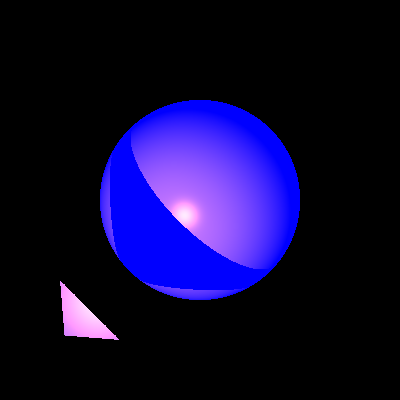
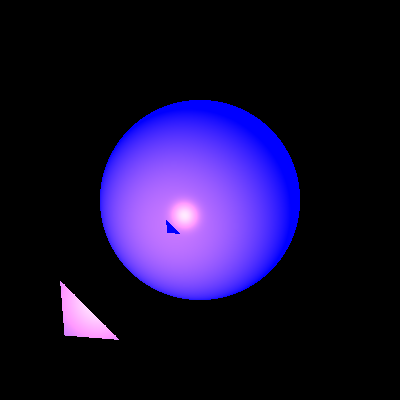
7.02.Nf.2

Changed region(s): [[0.27, 0.33, 0.66, 0.75]]

diff --git a/src/renderer/RayTracerBasic.java b/src/renderer/RayTracerBasic.java
@@ -16,7 +16,7 @@ import java.util.List;
  * Tzofiya David (209918374)
  * Shira Ben Shimol (326065976)
  */
-public class RayTracerBasic extends RayTracerBase{
+public class RayTracerBasic extends RayTracerBase {
     //private static final double DELTA = 0.1;
     private static final Double3 INITIAL_K = Double3.ONE;
     private static final int MAX_CALC_COLOR_LEVEL = 10;
@@ -40,7 +40,7 @@ public class RayTracerBasic extends RayTracerBase{
      * @return The color at the intersection point.
      */
     @Override
-    public Color traceRay(Ray ray){
+    public Color traceRay(Ray ray) {
         var intersections = _scene.geometries.findGeoIntsersections(ray);
         GeoPoint closestPoint = ray.findClosestGeoPoint(intersections);
         return closestPoint == null ? _scene.sceneBack : calcColor(closestPoint, ray);
@@ -66,20 +66,20 @@ public class RayTracerBasic extends RayTracerBase{
     }
 
 
-/*    private boolean unshaded(GeoPoint gp, LightSource lightSource, Vector l, Vector n, double nl){
-        Vector lightDirection = l.scale(-1);
-        Vector epsVector = n.scale(nl<0 ? DELTA : -DELTA);
-        Point point = gp.point.add(epsVector);
-        Ray lightRay = new Ray(point, lightDirection);
-        var intersections = _scene.geometries.findGeoIntsersections(lightRay);
-        if (intersections == null) return true;
-        double lightDistance = lightSource.getDistance(gp.point);
-        for (GeoPoint geoPoint : intersections){
-            if (alignZero(geoPoint.point.distance(gp.point) - lightDistance) <= 0) return false;
-        }
-        return true;
-    }*/
-    private Color calcLocalEffects(GeoPoint gp, Ray ray,Double3 k) {
+    /*    private boolean unshaded(GeoPoint gp, LightSource lightSource, Vector l, Vector n, double nl){
+            Vector lightDirection = l.scale(-1);
+            Vector epsVector = n.scale(nl<0 ? DELTA : -DELTA);
+            Point point = gp.point.add(epsVector);
+            Ray lightRay = new Ray(point, lightDirection);
+            var intersections = _scene.geometries.findGeoIntsersections(lightRay);
+            if (intersections == null) return true;
+            double lightDistance = lightSource.getDistance(gp.point);
+            for (GeoPoint geoPoint : intersections){
+                if (alignZero(geoPoint.point.distance(gp.point) - lightDistance) <= 0) return false;
+            }
+            return true;
+        }*/
+    private Color calcLocalEffects(GeoPoint gp, Ray ray, Double3 k) {
         Color color = gp.geometry.getEmission();
         Vector v = ray.getDir();
         Vector n = gp.geometry.getNormal(gp.point);
@@ -112,6 +112,7 @@ public class RayTracerBasic extends RayTracerBase{
     private Double3 calcDiffusive(Material material, double nl) {
         return material.kD.scale(nl < 0 ? -nl : nl);
     }
+
     private Color calcGlobalEffects(GeoPoint gp, Ray ray, int level, Double3 k) {
         Color color = Color.BLACK;
         Vector v = ray.getDir();
@@ -122,6 +123,7 @@ public class RayTracerBasic extends RayTracerBase{
                 .add(calcGlobalEffect(constructRefractedRay(gp, v, n),
                         level, k, material.kT));
     }
+
     private Color calcGlobalEffect(Ray ray, int level, Double3 k, Double3 kx) {
         Double3 kkx = k.product(kx);
         if (kkx.lowerThan(MIN_CALC_COLOR_K)) return Color.BLACK;
@@ -132,6 +134,7 @@ public class RayTracerBasic extends RayTracerBase{
         return Util.isZero(gp.geometry.getNormal(gp.point).dotProduct(ray.getDir()))
                 ? Color.BLACK : calcColor(gp, ray, level - 1, kkx).scale(kx);
     }
+
     private Ray constructRefractedRay(GeoPoint gp, Vector v, Vector n) {
         return new Ray(gp.point, n, v);
     }
@@ -154,23 +157,24 @@ public class RayTracerBasic extends RayTracerBase{
 
     private Double3 transparency(GeoPoint gp, LightSource light, Vector l, Vector n, double nl) {
         Vector lightDirection = l.scale(-1); // from point to light source
-        Ray lightRay = new Ray(GeoPoint.point, lightDirection, n);
-        List<GeoPoint> intersections = _scene.geometries.findGeoIntsersections(lightRay);
-
+        Ray lightRay = new Ray(gp.point, n, lightDirection); // ray to check shading
+        var intersections = _scene.geometries.findGeoIntsersections(lightRay);
+        if (intersections == null)
+            return Double3.ONE;
         Double3 ktr = Double3.ONE;
-        if (intersections == null) return ktr;
-
-        double distance = LightSource.getDistance(GeoPoint.point);
-
-        for (GeoPoint intersection : intersections) {
-
-            if (distance > intersection.point.distance(GeoPoint.point)) {
-                ktr = ktr.product(intersection.geometry.getMaterial().kT);
+        for (GeoPoint geoPoint : intersections) {
+            if (alignZero(geoPoint.point.distance(gp.point) - light.getDistance(gp.point)) <= 0) {
+                ktr = ktr.product(geoPoint.geometry.getMaterial().kT);
+                if (ktr.equals(Double3.ZERO)) {
+                    break;
+                }
             }
         }
         return ktr;
-    }
+
+}}
 
 
 
-}
+
+

diff --git a/unitTests/renderer/ReflectionRefractionTests.java b/unitTests/renderer/ReflectionRefractionTests.java
@@ -3,17 +3,17 @@
  */
 package renderer;
 
-import static java.awt.Color.*;
-
-import org.junit.jupiter.api.Test;
-
+import geometries.Plane;
 import geometries.Sphere;
 import geometries.Triangle;
 import lighting.AmbientLight;
 import lighting.SpotLight;
+import org.junit.jupiter.api.Test;
 import primitives.*;
-import renderer.*;
 import scene.Scene;
+
+import static java.awt.Color.*;
+
 
 /** Tests for reflection and transparency functionality, test for partial
  * shadows
@@ -82,26 +82,26 @@ public class ReflectionRefractionTests {
    @Test
    public void trianglesTransparentSphere() {
       Camera camera = new Camera(new Point(0, 0, 1000), new Vector(0, 0, -1), new Vector(0, 1, 0)) //
-         .setVPSize(200, 200).setVPDistance(1000);
+              .setVPSize(200, 200).setVPDistance(1000);
 
       scene.setAmbientLight(new AmbientLight(new Color(WHITE), 0.15));
 
       scene.geometries.add( //
-                           new Triangle(new Point(-150, -150, -115), new Point(150, -150, -135),
-                                        new Point(75, 75, -150)) //
-                              .setMaterial(new Material().setKd(0.5).setKs(0.5).setShininess(60)), //
-                           new Triangle(new Point(-150, -150, -115), new Point(-70, 70, -140), new Point(75, 75, -150)) //
-                              .setMaterial(new Material().setKd(0.5).setKs(0.5).setShininess(60)), //
-                           new Sphere(new Point(60, 50, -50), 30d).setEmission(new Color(BLUE)) //
-                              .setMaterial(new Material().setKd(0.2).setKs(0.2).setShininess(30).setKt(0.6)));
+              new Triangle(new Point(-150, -150, -115), new Point(150, -150, -135),
+                      new Point(75, 75, -150)) //
+                      .setMaterial(new Material().setKd(0.5).setKs(0.5).setShininess(60)), //
+              new Triangle(new Point(-150, -150, -115), new Point(-70, 70, -140), new Point(75, 75, -150)) //
+                      .setMaterial(new Material().setKd(0.5).setKs(0.5).setShininess(60)), //
+              new Sphere(new Point(60, 50, -50), 30d).setEmission(new Color(BLUE)) //
+                      .setMaterial(new Material().setKd(0.2).setKs(0.2).setShininess(30).setKt(0.6)));
 
       scene.lights.add(new SpotLight(new Color(700, 400, 400), new Point(60, 50, 0), new Vector(0, 0, -1)) //
-         .setKl(4E-5).setKq(2E-7));
+              .setKl(4E-5).setKq(2E-7));
 
       ImageWriter imageWriter = new ImageWriter("refractionShadow", 600, 600);
       camera.setImageWriter(imageWriter) //
-         .setRayTracer(new RayTracerBasic(scene)) //
-         .renderImage() //
-         .writeToImage();
+              .setRayTracer(new RayTracerBasic(scene)) //
+              .renderImage() //
+              .writeToImage();
    }
 }

diff --git a/src/geometries/Intersectable.java b/src/geometries/Intersectable.java
@@ -45,7 +45,7 @@ public abstract class Intersectable {
           public Geometry geometry;
           public Point point;
 
-     @Override
+          @Override
           public String toString() {
                return "GeoPoint{" +
                        "geometry=" + geometry +
@@ -53,20 +53,20 @@ public abstract class Intersectable {
                        '}';
           }
 
-     @Override
-     public boolean equals(Object o) {
+          @Override
+          public boolean equals(Object o) {
           if (this == o) return true;
           if (!(o instanceof GeoPoint geoPoint)) return false;
           return geometry.equals(geoPoint.geometry) && point.equals(geoPoint.point);
-     }
+          }
 
-     /**
-      * Constructs a GeoPoint object with the specified geometry and point.
-      *
-      * @param geometry The geometry of the intersection.
-      * @param point    The point of intersection.
-      */
-     public GeoPoint(Geometry geometry, Point point) {
+          /**
+          * Constructs a GeoPoint object with the specified geometry and point.
+          *
+          * @param geometry The geometry of the intersection.
+          * @param point    The point of intersection.
+          */
+          public GeoPoint(Geometry geometry, Point point) {
                this.geometry = geometry;
                this.point = point;
           }

diff --git a/src/lighting/DirectionalLight.java b/src/lighting/DirectionalLight.java
@@ -5,7 +5,7 @@ import primitives.Point;
 import primitives.Vector;
 
 public class DirectionalLight extends Light implements LightSource{
-    private Vector direction;
+    private final Vector direction;
 
     protected DirectionalLight(Color intensity, Vector direction) {
         super(intensity);

diff --git a/src/scene/Scene.java b/src/scene/Scene.java
@@ -90,4 +90,7 @@ public class Scene {
         this.lights = lights;
         return this;
     }
+
+
+
 }
